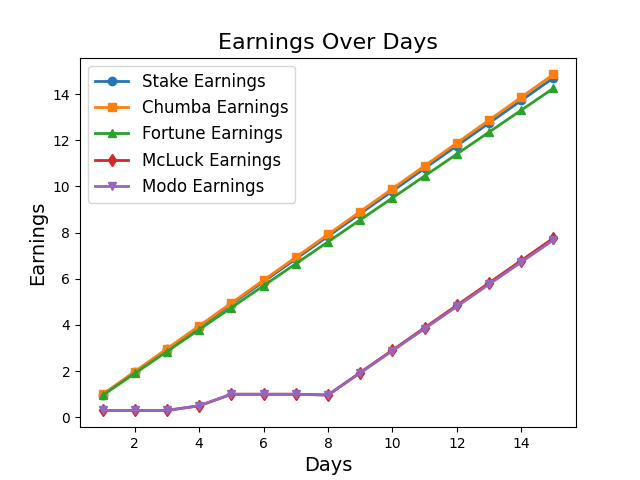
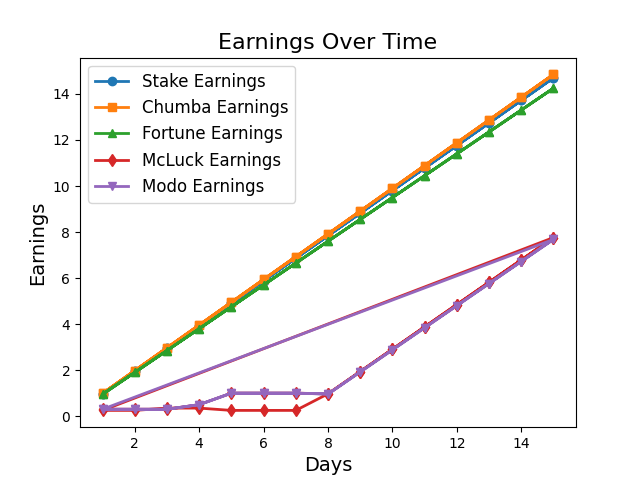
Fixing McLuck Earnings

diff --git a/DataAnalysis/EarningProjection.py b/DataAnalysis/EarningProjection.py
@@ -4,6 +4,7 @@
 
 import os
 import csv
+import random
 import pandas as pd
 import numpy as np
 import matplotlib.pyplot as plt
@@ -25,7 +26,6 @@ for x in range(1, TimeScope):
     StakeEarnings.append(float("{:.2f}".format(StakeDailyEarnings)))
     StakeDailyEarnings += float("{:.2f}".format(StakeBaseEarnings * (StakeAverageRTP / 100)))
 
-
 # ChumbaCasino # 
 ChumbaEarnings = [] 
 ChumbaBaseEarnings = 1
@@ -46,15 +46,18 @@ for x in range(1, TimeScope):
     FortuneEarnings.append(float("{:.2f}".format(FortuneDailyEarnings)))
     FortuneDailyEarnings += float("{:.2f}".format(FortuneBaseEarnings * (FortuneAverageRTP / 100)))
 
-# McLuck
-McLuckEarnings = [0.3, 0.3, 0.3, 0.5, 1, 1, 1]
-McLuckBaseEarnings = 1
-McLuckAverageRTP = 96.57
-McLuckDailyEarnings = McLuckBaseEarnings * (McLuckAverageRTP/100)
+#        #       
+# McLuck # 
+#        # 
 
-for x in range(1, (TimeScope - 7)):
-    McLuckEarnings.append(float("{:.2f}".format(McLuckDailyEarnings)))
-    McLuckDailyEarnings += float("{:.2f}".format(McLuckBaseEarnings * (McLuckAverageRTP / 100)))
+McLuckEarnings = []
+# McLuck has a random bonus 'DailyEarningsOptions'
+McLuckEarningsOptions = [0.25, 0.35] 
+McLuckAverageRTP = 96.57
+
+for x in range(1, TimeScope):
+  McLuckEarnings.append(McLuckEarningsOptions[random.randint(0, 1) * (McLuckAverageRTP/100)])
+  McLuckEarningsOptions += McLuckEarningsOptions * (McLuckAverageRTP/100)
 
 # ModoUS
 ModoEarnings = [0.3, 0.3, 0.3, 0.5, 1, 1, 1]
@@ -105,7 +108,7 @@ plt.plot(Day, McLuckEarnings, label='McLuck Earnings', marker='d', linewidth=2, 
 plt.plot(Day, ModoEarnings, label='Modo Earnings', marker='v', linewidth=2, markersize=6)
 
 # Customize plot appearance
-plt.title('Earnings Over Days', fontsize=16)
+plt.title('Earnings Over Time', fontsize=16)
 plt.xlabel('Days', fontsize=14)
 plt.ylabel('Earnings', fontsize=14)
 plt.grid(False)

diff --git a/DataAnalysis/test.py b/DataAnalysis/test.py
@@ -1,0 +1,25 @@
+import random 
+
+TimeScope = 16
+
+McLuckEarnings = []
+# McLuck has a random bonus 'DailyEarningsOptions'
+McLuckEarningsOptions = [0.25, 0.35] 
+McLuckAverageRTP = 96.57
+
+
+def McLuckRandomEarning():
+    McLuckEarningsOptions = [0.25, 0.35]  # Example list of options
+    RandomEarning = random.choice(McLuckEarningsOptions)
+    return RandomEarning
+
+for x in range(1, TimeScope):
+    McLuckPredictedEarning = McLuckRandomEarning() * (McLuckAverageRTP/100)
+    McLuckEarnings.append(McLuckPredictedEarning)
+    McLuckPredictedEarning += McLuckRandomEarning() * (McLuckAverageRTP/100)
+
+    print(McLuckEarnings)
+
+print(McLuckEarnings)
+
+# print(McLuckRandomEarning())

diff --git a/SocialCasinos/FortuneCoins/FortuneLogin.py b/SocialCasinos/FortuneCoins/FortuneLogin.py
@@ -60,3 +60,6 @@ PasswordElement.click()
 PasswordElement.send_keys(CasinoPassword)
 PasswordElement.send_keys(Keys.ENTER)
 time.sleep(10)
+
+Fortune_Login_test
+Fortune_Login_test

diff --git a/README.md b/README.md
@@ -44,19 +44,19 @@ The website [BestOdds.com](https://www.bestodds.com/) was used to determine the 
 
 ### 5. Harvest Time (Cash-out) 🌽
 
-This step is set up so that funds in these 'social casinos' are automatically withdrawn as soon as a monetary threshold is achieved. Cashout method is determined by user preference (direct deposit, cryptocurrency or giftcard). Email is sent to user letting them know that funds will be sent to preferred payment method. Option is given to change preference in the cashout amount (Normally $50+ per site)
+This step is set up so that funds in these 'social casinos' are automatically withdrawn as soon as a monetary threshold is achieved. The ashout method is determined by user preference (direct deposit, cryptocurrency or giftcard). Email is sent to user letting them know that funds will be sent to preferred payment method. The option is given to change preference in the cashout amount (Normally $50+ per site)
 
 ## How much money can be made?
 
 ### Weekly earnings|
 
-| Social Casino |                 Average Weekly Earnings                  | Return to Player (RTP)^\*^ |                 Average Payout Rate (Weekly)                 |
-| :-----------: | :------------------------------------------------------: | :------------------------: | :----------------------------------------------------------: |
-|   Stake.us    |                            $7                            |            98%             |                            $6.86                             |
-| Chumba Casino |                            $7                            |           96.78%           |                            $6.77                             |
-| Fortune Coins |                            $7                            |           95.33%           |                            $6.67                             |
-|    McLuck     | <u>First Week:</u> $2.8 <br> <u>Weeks thereafter:</u> $7 |           96.57%           | <u>First Week:</u> $2.70 <br> <u>Weeks thereafter:</u> $6.76 |
-|    Modu.us    |   <u>First Week:</u> <br> <u>Weeks thereafter:</u> $7    |           95.93%           | <u>First Week:</u> $4.22 <br> <u>Weeks thereafter:</u> $6.72 |
+| Social Casino |               Average Weekly Earnings               | Return to Player (RTP)^\*^ |                 Average Payout Rate (Weekly)                 |
+| :-----------: | :-------------------------------------------------: | :------------------------: | :----------------------------------------------------------: |
+|   Stake.us    |                         $7                          |            98%             |                            $6.86                             |
+| Chumba Casino |                         $7                          |           96.78%           |                            $6.77                             |
+| Fortune Coins |                         $7                          |           95.33%           |                            $6.67                             |
+|    McLuck     |                        $2.1                         |           96.57%           |                            $2.03                             |
+|    Modu.us    | <u>First Week:</u> <br> <u>Weeks thereafter:</u> $7 |           95.93%           | <u>First Week:</u> $4.22 <br> <u>Weeks thereafter:</u> $6.72 |
 
 ^\*^ RTP is a proportion of average earnings in a game over time. This is calculated based on most profitable gleaning strategies (this project specifically used [BestOdds.com](Bestodds.com), [Covers.com](covers.com) and [UScasinos.com](uscasinos.com))\_
 
@@ -67,6 +67,8 @@ This step is set up so that funds in these 'social casinos' are automatically wi
 - [Fortune Coins](https://www.fortunecoins.com/)
 - [McLuck](https://www.mcluck.com/)
 - [Modo.us](https://modo.us/)
+
+Support for more social casinos is currently in development. The updated list of social casinos of interest provided by reddit user [u/lovebud99](https://www.reddit.com/user/lovebud99/) can be found [here](https://docs.google.com/spreadsheets/d/1EwpEnGC1ZSHpk7zWtE_CoVYJGpcIWIX1oTqa7T561EM/edit#gid=0).
 
 ## How To Use
 
